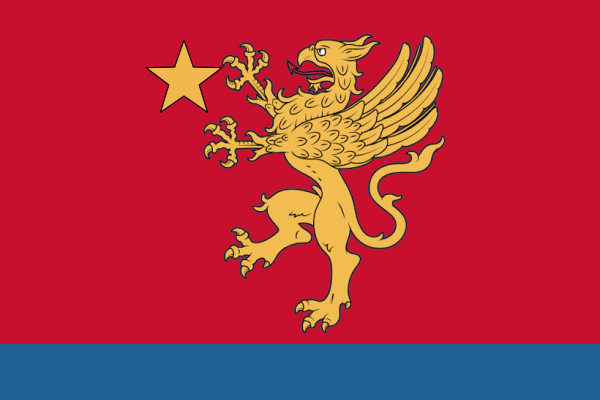
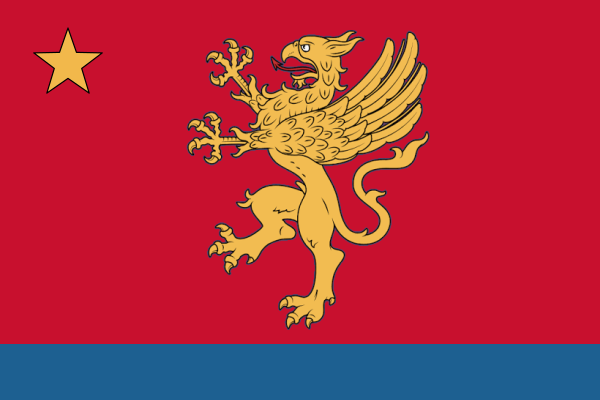
Obodryci rewolucja: gwiazda w lewym górnym rogu
Claude-Session: https://claude.ai/code/session_01PNyJEgjZDVeUSFrp2WbnmN

Changed region(s): [[0.24, 0.06, 0.75, 0.84], [0.06, 0.06, 0.18, 0.24]]

diff --git a/gfx_koncepty/flagi_polabie/generuj_flagi.py b/gfx_koncepty/flagi_polabie/generuj_flagi.py
@@ -19,7 +19,7 @@ F={
  'obodryci_2_republika': svg(f'<rect width="300" height="100" fill="{WHITE}"/><rect y="100" width="300" height="100" fill="{RED}"/>'
                             f'<circle cx="150" cy="100" r="62" fill="{BLUE}" stroke="{GOLD}" stroke-width="4"/>'+img(GO,GOW,GOH,147.5,105,98)),
  # Obodryci rewolucyjni: czerwień, złoty gryf trzyma się gwiazdy (gwiazda przed szponami)
- 'obodryci_3_rewolucja': svg(f'<rect width="300" height="200" fill="{RED}"/><rect y="172" width="300" height="28" fill="{BLUE}"/>'+img(GO,GOW,GOH,162,92,150)+star(92,40,20,GOLD).replace('/>',' stroke="#000000" stroke-width="0.6" stroke-linejoin="round"/>')),
+ 'obodryci_3_rewolucja': svg(f'<rect width="300" height="200" fill="{RED}"/><rect y="172" width="300" height="28" fill="{BLUE}"/>'+img(GO,GOW,GOH,154,90,150)+star(34,32,18,GOLD).replace('/>',' stroke="#000000" stroke-width="0.6" stroke-linejoin="round"/>')),
 }
 for k,v in F.items():
     p=os.path.join(HERE,k+'.svg'); open(p,'w').write(v)

diff --git a/gfx_koncepty/flagi_polabie/README.md b/gfx_koncepty/flagi_polabie/README.md
@@ -14,6 +14,6 @@ Złoty gryf od autora moda, wycięty z błękitnej tarczy: [../emblematy/gryf_ob
 |---|---|
 | obodryci_1_ksiestwo | Księstwo (start, Niklotowice): złoty gryf na błękicie, złoty pas u dołu |
 | obodryci_2_republika | Republika kupiecka (Liubice, słowiańska Hanza): biel nad czerwienią w barwach Hanzy, błękitne koło ze złotym gryfem |
-| obodryci_3_rewolucja | Obodryci rewolucyjni: czerwień, złoty gryf i złota gwiazda, błękitny pas u dołu |
+| obodryci_3_rewolucja | Obodryci rewolucyjni: czerwień, złoty gryf na środku, złota gwiazda w lewym górnym rogu, błękitny pas u dołu |
 
 Wyznanie Obodrytów nie jest jeszcze ustalone w lore, więc nie ma na razie wariantu teokratycznego.
